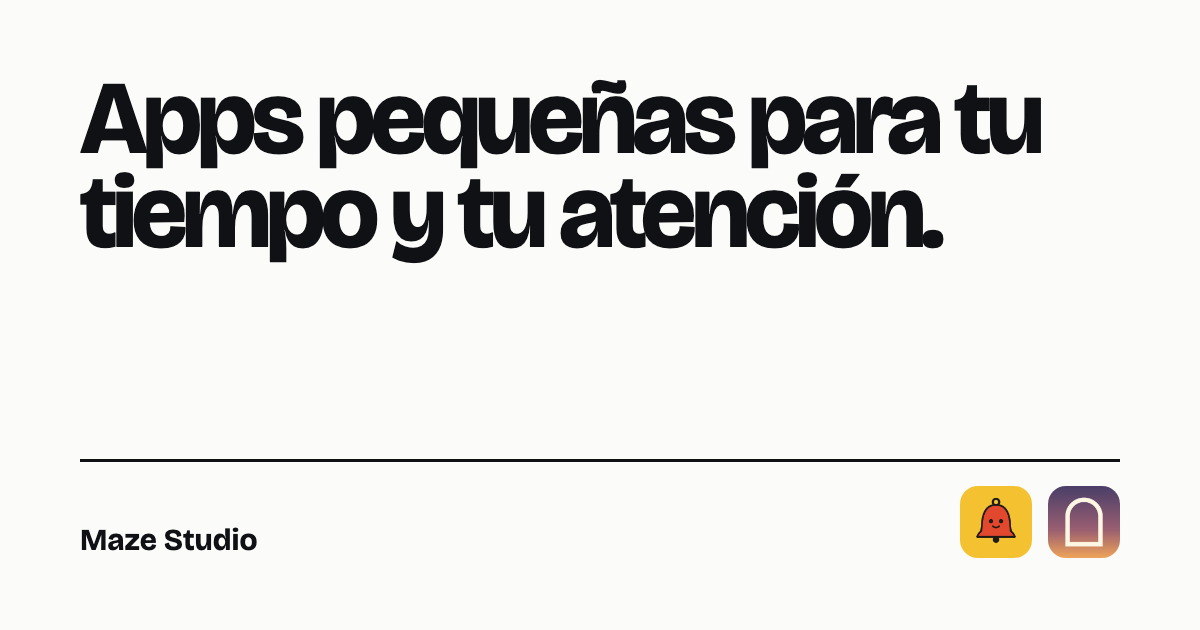
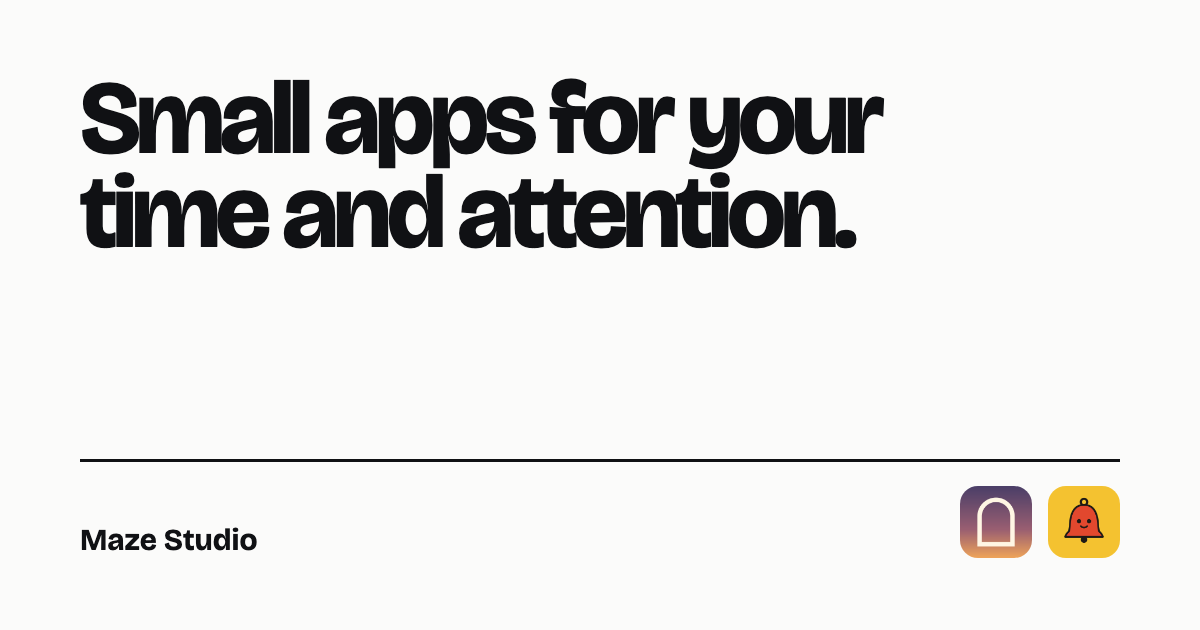
Portada: Dear Wander primero, textos sin muletillas e imagen para compartir en inglés
- Dear Wander encabeza la lista porque es la que se puede descargar hoy
- og-studio.png en inglés y og-studio-es.png en español
- robots.txt con el sitemap y datos de Organization
- Textos de la portada y de Tolli revisados: preguntas en segunda persona,
  sin "escríbenos" y sin la frase de pago único en la portada

Changed region(s): [[0.0617, 0.1206, 0.8942, 0.4222], [0.8017, 0.754, 0.9558, 0.9048]]

diff --git a/og-src/studio.html b/og-src/studio.html
@@ -1,8 +1,8 @@
 <!doctype html><html><head><meta charset="utf-8"><style>
-@font-face{font-family:B;src:url("file:///Users/gabriela/Documents/mazestudio.app/public/fonts/BricolageGrotesque.ttf");font-weight:200 800}
+@font-face{font-family:B;src:url("file:///Users/gabriela/Documents/mazestudio/public/fonts/BricolageGrotesque.ttf");font-weight:200 800}
 html,body{margin:0;width:1200px;height:630px;background:#FBFBFA;color:#101114;font-family:B,sans-serif}
 .w{padding:72px 80px;height:100%;box-sizing:border-box;display:flex;flex-direction:column;justify-content:space-between}
 h1{margin:0;font-size:104px;line-height:.9;letter-spacing:-5px;font-weight:750;max-width:1000px}
 .b{display:flex;justify-content:space-between;align-items:flex-end;font-size:30px;font-weight:700;border-top:3px solid #101114;padding-top:24px}
 .i{display:flex;gap:16px}.i img{width:72px;height:72px;border-radius:18px}
-</style></head><body><div class="w"><h1>Apps pequeñas para tu tiempo y tu atención.</h1><div class="b"><span>Maze Studio</span><span class="i"><img src="file:///Users/gabriela/Documents/mazestudio.app/public/img/tolli-icon.png"><img src="file:///Users/gabriela/Documents/mazestudio.app/public/img/dear-wander-icon.png"></span></div></div></body></html>
+</style></head><body><div class="w"><h1>Apps pequeñas para tu tiempo y tu atención.</h1><div class="b"><span>Maze Studio</span><span class="i"><img src="file:///Users/gabriela/Documents/mazestudio/public/img/dear-wander-icon.png"><img src="file:///Users/gabriela/Documents/mazestudio/public/img/tolli-icon.png"></span></div></div></body></html>

diff --git a/src/data/apps.ts b/src/data/apps.ts
@@ -31,7 +31,21 @@ export interface App {
   nameFont?: string;
 }
 
+// Orden de la portada: primero lo que se puede descargar hoy.
 export const apps: App[] = [
+  {
+    slug: 'dear-wander',
+    name: 'Dear Wander',
+    status: 'live',
+    platforms: 'iPhone · Android',
+    icon: '/img/dear-wander-icon.png',
+    tagline: {
+      en: 'A one-minute breath before you open the apps you scroll most.',
+      es: 'Una respiración de un minuto antes de abrir las apps donde más haces scroll.',
+    },
+    externalUrl: 'https://dearwander.com',
+    hover: { bg: '#F3DDBA', ink: '#3B2A1E' },
+  },
   {
     slug: 'tolli',
     name: 'Tolli',
@@ -48,19 +62,6 @@ export const apps: App[] = [
     },
     hover: { bg: '#F4C230', ink: '#1E1A16' },
     nameFont: "'Fredoka', sans-serif",
-  },
-  {
-    slug: 'dear-wander',
-    name: 'Dear Wander',
-    status: 'live',
-    platforms: 'iPhone · Android',
-    icon: '/img/dear-wander-icon.png',
-    tagline: {
-      en: 'A one-minute breath before you open the apps you scroll most.',
-      es: 'Una respiración de un minuto antes de abrir las apps donde más haces scroll.',
-    },
-    externalUrl: 'https://dearwander.com',
-    hover: { bg: '#F3DDBA', ink: '#3B2A1E' },
   },
   {
     slug: 'ringwell',

diff --git a/og-src/studio-en.html b/og-src/studio-en.html
@@ -1,0 +1,8 @@
+<!doctype html><html><head><meta charset="utf-8"><style>
+@font-face{font-family:B;src:url("file:///Users/gabriela/Documents/mazestudio/public/fonts/BricolageGrotesque.ttf");font-weight:200 800}
+html,body{margin:0;width:1200px;height:630px;background:#FBFBFA;color:#101114;font-family:B,sans-serif}
+.w{padding:72px 80px;height:100%;box-sizing:border-box;display:flex;flex-direction:column;justify-content:space-between}
+h1{margin:0;font-size:104px;line-height:.9;letter-spacing:-5px;font-weight:750;max-width:1000px}
+.b{display:flex;justify-content:space-between;align-items:flex-end;font-size:30px;font-weight:700;border-top:3px solid #101114;padding-top:24px}
+.i{display:flex;gap:16px}.i img{width:72px;height:72px;border-radius:18px}
+</style></head><body><div class="w"><h1>Small apps for your time and attention.</h1><div class="b"><span>Maze Studio</span><span class="i"><img src="file:///Users/gabriela/Documents/mazestudio/public/img/dear-wander-icon.png"><img src="file:///Users/gabriela/Documents/mazestudio/public/img/tolli-icon.png"></span></div></div></body></html>
